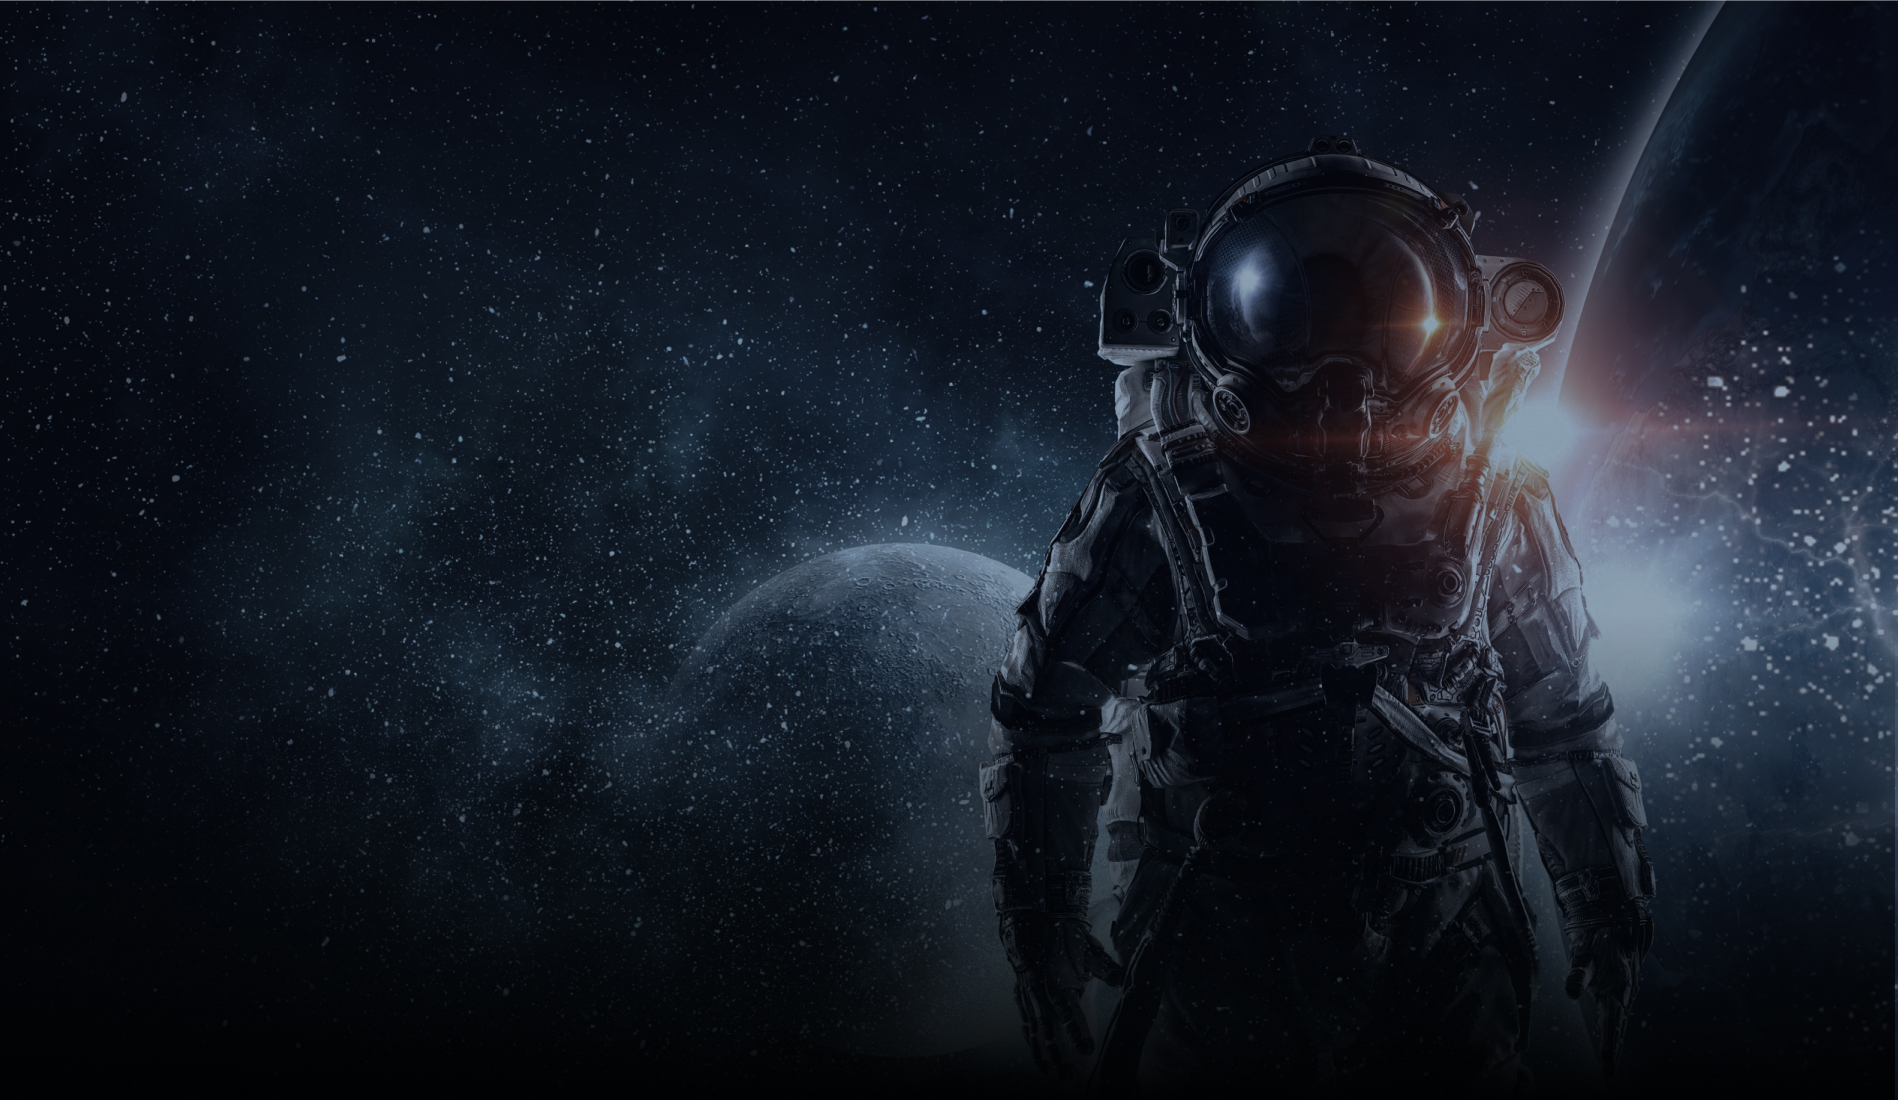
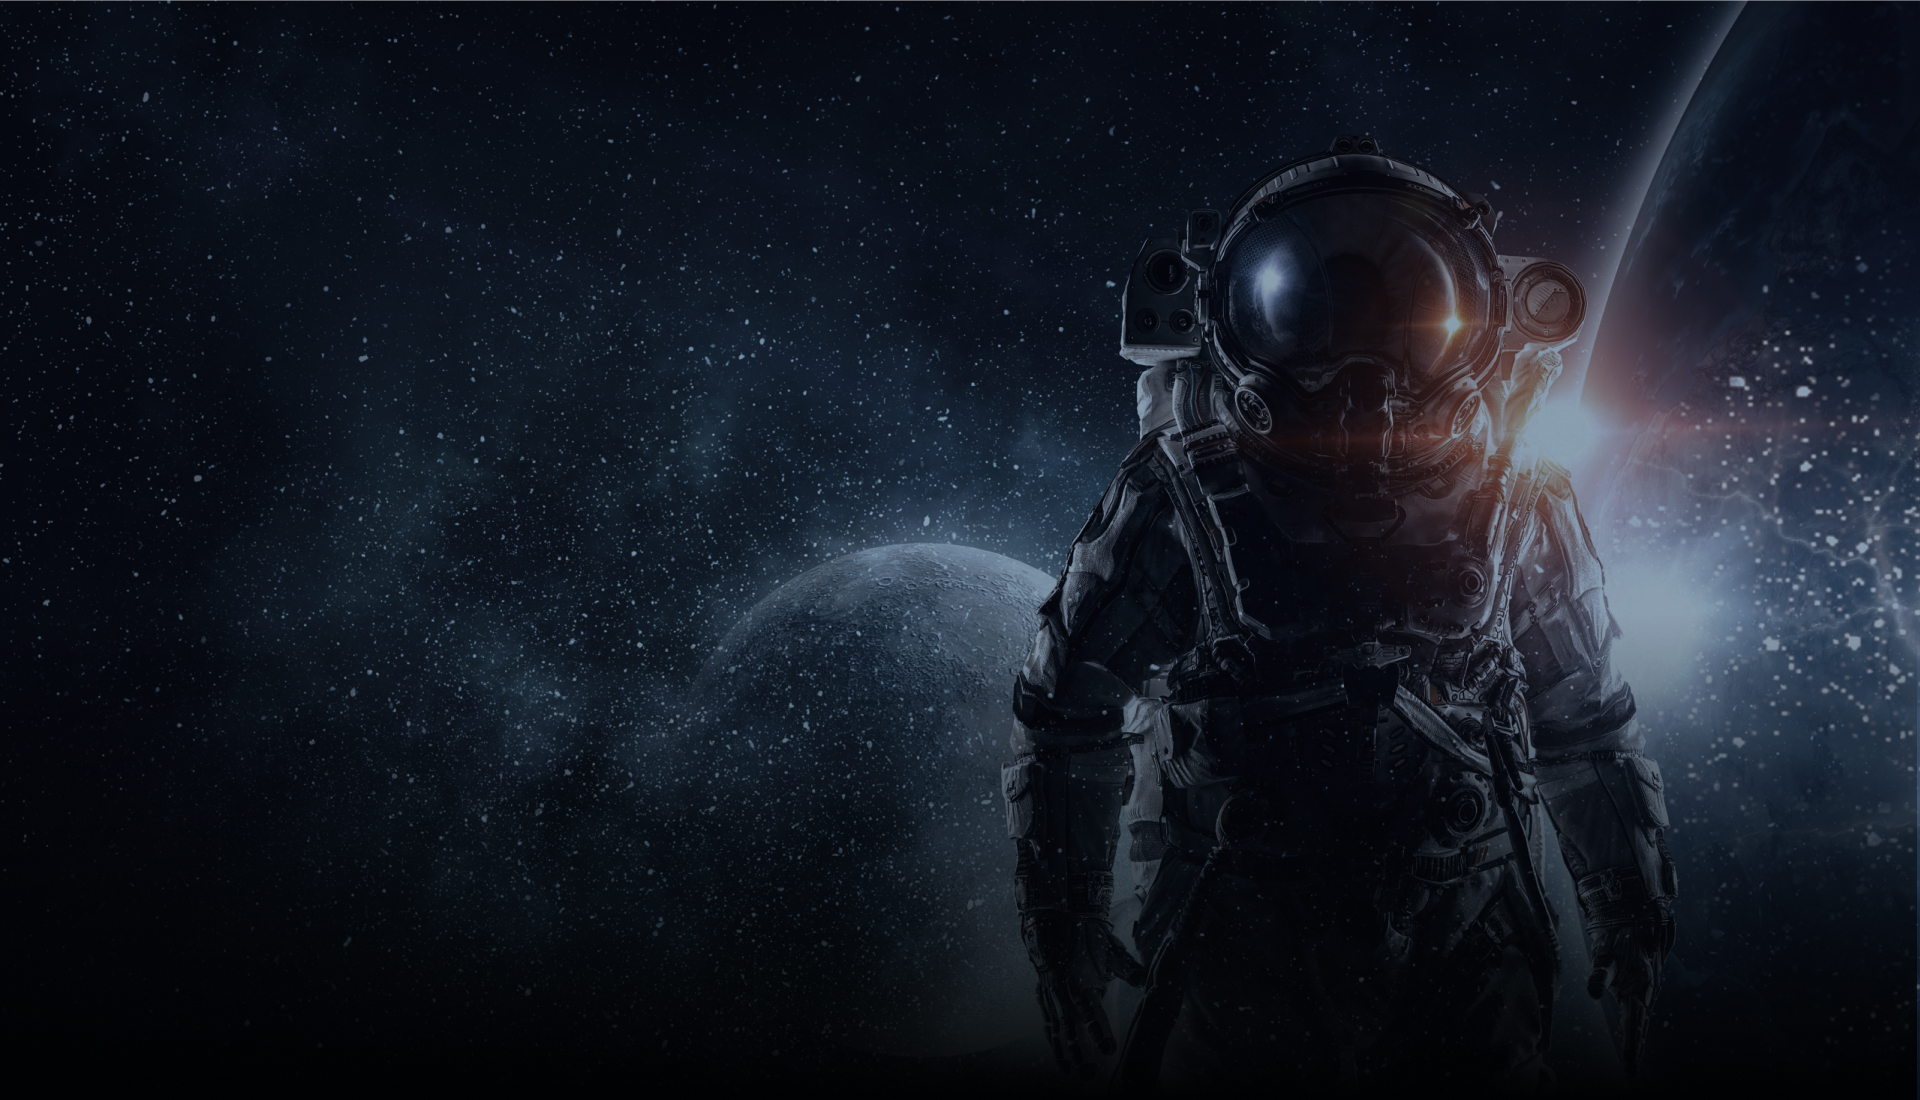
Completed about-us part

diff --git a/index.html b/index.html
@@ -56,6 +56,141 @@
     </div>
   </header>
 
+  <main class="main">
+    <section class="about">
+      <div class="container">
+        <h2 class="title">
+          О нас
+        </h2>
+        <div class="about__item">
+          <img class="about__img" src="./images/main_richard-branson.jpg" alt="Richard Branson">
+          <div class="about__content">
+            <h3 class="about__content-title">
+              Virgin Galactic
+            </h3>
+            <h5 class="about__content-subtitle">
+              суборбитальный полет
+            </h5>
+            <div class="about__content-text">
+              <p>Компания Virgin Galactic 11 июля 2021 осуществила первый "туристический" суборбитальный полет со своим
+                основателем,
+                британским миллиардером Ричардом Брэнсоном на борту.</p>
+              <p>Корабль "Unity 22" стартовал с космического порта "Америка" в штате Нью-Мексико с помощью
+                самолета-носителя VMS Eve.
+                Позже он отсоединился от самолета-носителя.</p>
+              <p>Руководство Virgin Galactic надеется, что массовые суборбитальные космические полеты начнутся до 2022
+                года.</p>
+              <table class="about__table">
+                <tr class="about__table-tr">
+                  <td class="about__table-td">время в пути</td>
+                  <td class="about__table-td">расстояние</td>
+                  <td class="about__table-td">в невесомости</td>
+                  <td class="about__table-td">стоимость</td>
+                  <td class="about__table-td">вернешься?</td>
+                </tr>
+                <tr class="about__table-tr">
+                  <td class="about__table-td">1 <span>час</span></td>
+                  <td class="about__table-td">80<span>км</span></td>
+                  <td class="about__table-td">4-5<span>мин</span></td>
+                  <td class="about__table-td">250<span>тыс.дол</span></td>
+                  <td class="about__table-td">99<span>%</span></td>
+                </tr>
+              </table>
+            </div>
+            <button class="button">
+              ЗАБРОНИРОВАТЬ ПОЛЕТ
+            </button>
+          </div>
+        </div>
+        <div class="about__item">
+          <img class="about__img" src="./images/bezos1.png" alt="Bezos">
+          <div class="about__content">
+            <h3 class="about__content-title">
+              Blue Origin
+            </h3>
+            <h5 class="about__content-subtitle">
+              суборбитальный полет
+            </h5>
+            <div class="about__content-text">
+              <p>Суборбитальные ракета New Shepard компании Blue Origin 20 июля 2021года впервые в истории компании
+                вывела на космическую
+                высоту капсулу с людьми, с самым богатым человеком мира Джеффом Безосом на борту.</p>
+              <p>New Shepard высотой 18 м и шириной 4 м - многоразовый космический аппарат. Бустерная установка
+                поднимает герметичное
+                пассажирское судно на высоту около 76 км. Импульс преподносит капсулу вверх в космос.</p>
+              <p>После этого она опускается на землю под тремя парашютами. Ракета-носитель тоже возвращается домой.</p>
+              <table class="about__table">
+                <tr class="about__table-tr">
+                  <td class="about__table-td">время в пути</th>
+                  <td class="about__table-td">расстояние</th>
+                  <td class="about__table-td">в невесомости</th>
+                  <td class="about__table-td">стоимость</th>
+                  <td class="about__table-td">вернешься?</th>
+                </tr>
+                <tr class="about__table-tr">
+                  <td class="about__table-td">10<span>час</span></td>
+                  <td class="about__table-td">100<span>км</span></td>
+                  <td class="about__table-td">4-5<span>мин</span></td>
+                  <td class="about__table-td">250<span>тыс.дол</span></td>
+                  <td class="about__table-td">99<span>%</span></td>
+                  <caption class="about__table-caption">
+                    * стоимость 200-250 тыс. дол. по четным/нечетным или как повезет
+                </tr>
+              </table>
+            </div>
+            <button class="button">
+              ЗАБРОНИРОВАТЬ ПОЛЕТ
+            </button>
+          </div>
+        </div>
+        <div class="about__item">
+          <img class="about__img" src="./images/musk-rocket.png" alt="Elon Musk and">
+          <div class="about__content">
+            <h3 class="about__content-title">
+              SpaceX
+            </h3>
+            <h5 class="about__content-subtitle">
+              А может на Луну или Марс?
+            </h5>
+            <div class="about__content-text">
+              <p>В 2016 году на 67-м ежегодном Международном конгрессе астронавтики Илон Маск заявил, что оптимистичный
+                временной график
+                предусматривает первый полет к Марсу в 2022 году (доставка груза).</p>
+              <p>Полет с экипажем - в 2024 году.
+                На Красную планету экипаж прибудет в 2025-26 году.
+                "Я начал SpaceX, потому что хотел помочь снизить стоимость космических перевозок, чтобы основать жизни
+                на другой
+                планете".</p>
+              <p>Если все пойдет по плану, то благодаря Маск к 2050 году жителями Красной планеты смогут себя назвать
+                около миллиона
+                человек. Туда их доставит флотилия из тысячи кораблей Starship.</p>
+              <table class="about__table">
+                <tr class="about__table-tr">
+                  <td class="about__table-td">время в пути</td>
+                  <td class="about__table-td">расстояние</td>
+                  <td class="about__table-td">в невесомости</td>
+                  <td class="about__table-td">стоимость</td>
+                  <td class="about__table-td">вернешься?</td>
+                </tr>
+                <tr class="about__table-tr">
+                  <td class="about__table-td">150<span>дней</span></td>
+                  <td class="about__table-td">55<span>млн.км</span></td>
+                  <td class="about__table-td">много<span>мин</span></td>
+                  <td class="about__table-td">10<span>млрд.дол</span></td>
+                  <td class="about__table-td">1<span>%</span></td>
+                </tr>
+              </table>
+            </div>
+            <button class="button">
+              ЗАБРОНИРОВАТЬ ПОЛЕТ
+            </button>
+          </div>
+        </div>
+      </div>
+    </section>
+  </main>
+
+
   <script src="https://ajax.googleapis.com/ajax/libs/jquery/3.4.1/jquery.min.js"></script>
   <script src="js/slick.min.js"></script>
   <script src="js/jquery.fancybox.min.js"></script>

diff --git a/css/style.css b/css/style.css
@@ -78,9 +78,6 @@ body {
   padding: 75px 0 30px 0;
 }
 
-.menu {
-}
-
 .menu__list {
   display: flex;
 }
@@ -109,9 +106,6 @@ body {
 .login {
   margin-left: 22px;
   margin-right: 134px;
-}
-
-.login__img {
 }
 
 .header__content {
@@ -170,4 +164,121 @@ body {
 
 .header__description-text + .header__description-text {
   margin-left: 52px;
+}
+
+.about {
+  background-image: url(../images/about-us1.jpg);
+  background-size: cover;
+  background-position: center;
+  background-repeat: no-repeat;
+}
+
+.title {
+  font-family: 'spaceagecyrillic';
+  padding: 100px 0;
+  font-size: 48px;
+  line-height: 48px;
+  font-weight: 400;
+}
+
+.button {
+  border: 1px solid #FFFFFF;
+  padding: 15px 10px 16px;
+  width: 300px;
+  white-space: nowrap;
+  font-size: 18px;
+  line-height: 21px;
+  text-transform: uppercase;
+}
+
+.about__item {
+  display: flex;
+  justify-content: space-between;
+  flex-wrap: wrap; /*check*/
+  padding-bottom: 150px;
+}
+
+.about__item:nth-child(odd) {
+  flex-direction: row-reverse;
+}
+
+.about__img {
+  max-width: 100%;
+}
+
+.about__content {
+  width: 600px;
+}
+
+.about__content-title {
+  font-weight: 700;
+  font-size: 30px;
+  line-height: 36px;
+  margin-bottom: 5px;
+}
+
+.about__content-subtitle {
+  color: #036CCA;
+  font-weight: normal;
+  font-size: 12px;
+  line-height: 14px;
+  text-transform: uppercase;
+  margin-bottom: 30px;
+}
+
+.about__content-text {
+  display: flex;
+  justify-content: space-between;
+  flex-wrap: wrap;
+}
+
+.about__content-text p {
+  margin-bottom: 50px;
+  width: 165px;
+  font-size: 16px;
+  line-height: 19px;
+}
+
+.about__table {
+  margin-bottom: 50px;
+}
+
+.about__table-caption {
+  caption-side: bottom;
+  margin-top: 20px;
+  text-align: left;
+  font-size: 12px;
+  line-height: 14px;
+}
+
+.about__table-tr {
+  border: 1px solid #fff;
+  border-left: none; 
+  border-right: none; 
+  font-size: 16px;
+  line-height: 19px;
+  text-align: center;
+}
+
+.about__table-tr +.about__table-tr {
+  font-weight: bold;
+  font-size: 36px;
+  line-height: 43px;
+}
+
+.about__table-td {
+  padding: 10px 30px 10px 0;
+  white-space: nowrap;
+}
+
+.about__table-td span{
+  font-size: 14px;
+  line-height: 17px;
+  display: block;
+}
+
+.about__table-footer {
+  margin-top: 20px;
+  font-size: 12px;
+  line-height: 14px;
 }
